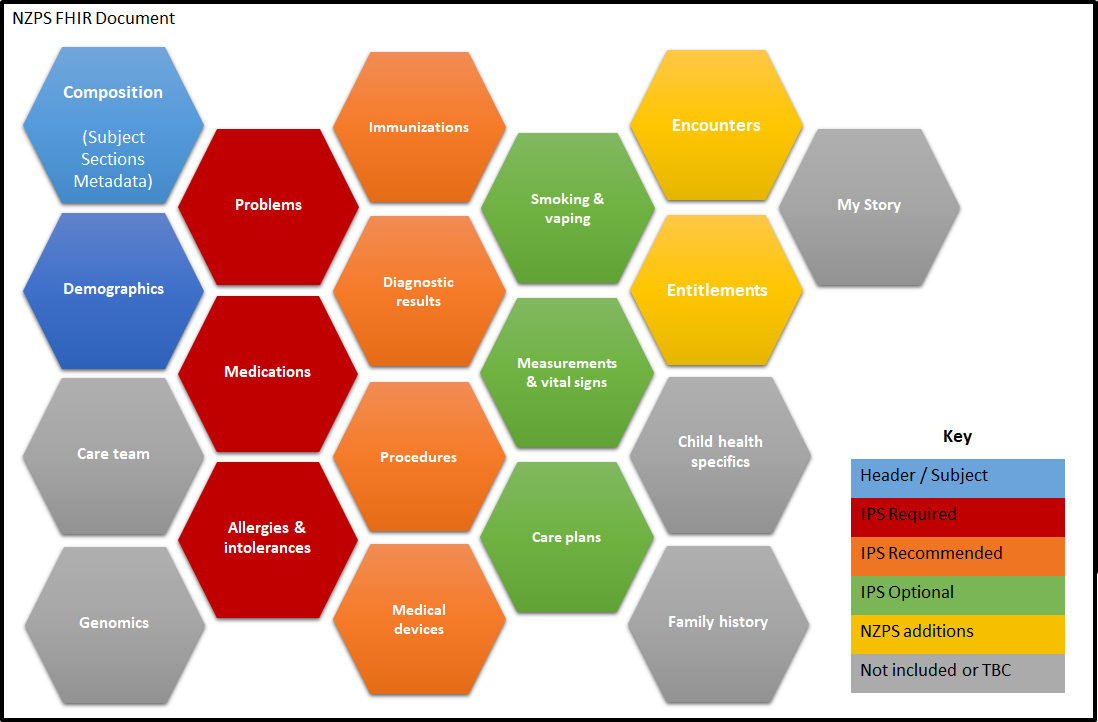
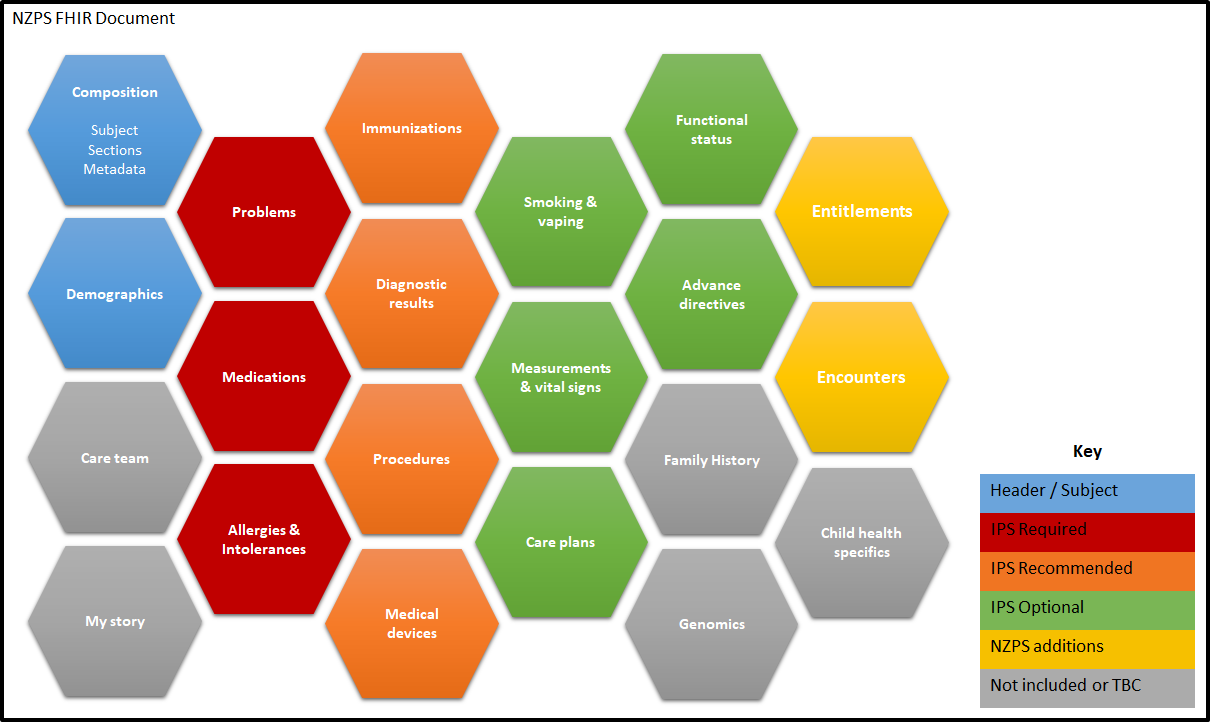
update diagrams and add profiles

diff --git a/input/pagecontent/index.md b/input/pagecontent/index.md
@@ -1,6 +1,6 @@
 <p style ="color:#ff0000; padding:10px; border-left:3px solid #ff0000;"> This draft is under active development and may change significantly.</p>
 
-# FHIR NZ Patient Summary (NZPS)
+### FHIR NZ Patient Summary (NZPS)
 
 This FHIR implementation guide (IG) defines the draft FHIR translation of the [HISO 10099:2022 NZ International Patient Summary (NZIPS) standard](https://consult.health.govt.nz/hiso/hiso-10099-2022-nzips/supporting_documents/hiso10099nzipsdraft20220509.pdf) published for consultation in May & July 2022. 
 
@@ -8,7 +8,7 @@ The mahi to develop HISO 10099:2022 standard has been guided by an expert adviso
 professionals, software experts and consumer representatives who worked with HISO since October 2021 to review drafts and
 provide input.
 
-## About the draft standard
+### About the draft standard
 
 NZPS is a deliverable of the [Interoperability Roadmap 2020](https://www.health.govt.nz/publication/hiso-100832020-interoperability-roadmap) and a standard that will contribute to a more joined-up and equitable health system. NZPS is our adaptation for Aotearoa of the recognised ISO and HL7® International Patient Summary (IPS) standards. 
 
@@ -24,7 +24,11 @@ The standard comprises a data set specification and related data exchange and da
 a source of requirements for continuity of care, consumer access and patient record transfer use cases, defining the key data
 elements and how they are represented. 
 
-## Dependencies and relationship to other standards
+### FHIR version
+
+{% include cross-version-analysis.xhtml %}
+
+### Dependencies and relationship to other standards
 
 The profiles in the NZPS are derived from the IPS profiles. The NZPS profiles also conform to constraints expressed in the [FHIR NZBase profiles](https://fhir.org.nz/ig/base/index.html). The IG has dependencies on the following packages: 
 

diff --git a/input/pagecontent/the-nzps.md b/input/pagecontent/the-nzps.md
@@ -1,3 +1,5 @@
+### Initial scope
+
 NZPS is an extensible data set specification that will build on the set of data blocks presented here. New requirements can be
 expected to emerge from IPS’s own further development, as well as from local initiatives. The initial scope of the NZPS covers the content areas shown in the data blocks below. 
 
@@ -19,6 +21,8 @@ expected to emerge from IPS’s own further development, as well as from local i
 | Encounters                 | Core personal health information includes a record of the person’s recent encounters and interactions with health providers and the health system. This includes planned and unplanned encounters, in-person and online, at home or at a facility. Common types of encounter includes visits and online consultations with a GP, allied health professional or specialist.                                                                                                                                                                        |
 
 <br />
+
+### Future scope
 
 In the future, the initial scope will be expanded to include new sections with additional content. The content areas identified to add to this intial scope are shown in the following diagram. 
 

diff --git a/input/pagecontent/mapping.md b/input/pagecontent/mapping.md
@@ -2,3 +2,17 @@
 Which FHIR resources are used to provide the information in the data blocks. 
 
 Which data is also included in the bundle as referenced resources that support the data blocks (e.g. a Practitioner resource may be referenced from an observtion as the 'performer' - the individual who made the observation)
+
+
+
+<!--
+test tables 
+
+table-profiles
+
+{% include table-profiles.xhtml %}
+
+list-profiles
+
+{% include list-profiles.xhtml %} 
+-->

diff --git a/profiling.md b/profiling.md
@@ -2,6 +2,14 @@
 
 ## To do / clarify by content area
 
+### functional status
+
+* include
+
+### advance directive
+
+* include
+
 ### Demographics
 
 * NZ Ethnicity - should be moved to new NZbase version of ethnicity extension / valueset since we know it will change
